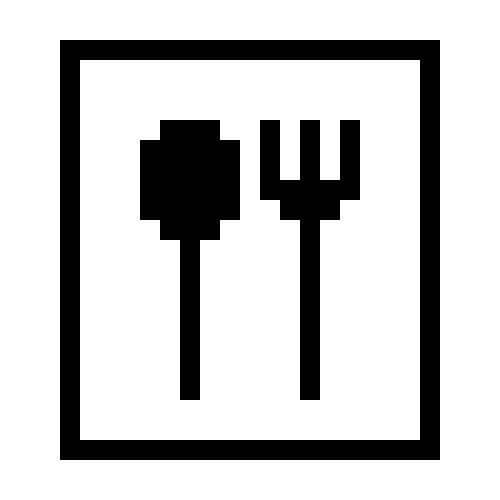
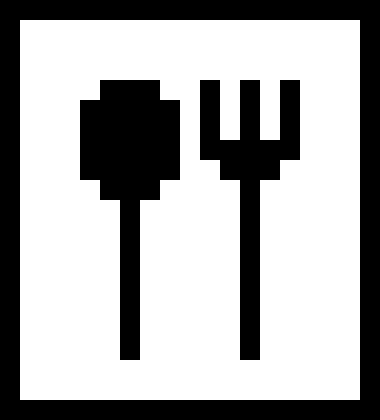
12 commit Maria

diff --git a/main.py b/main.py
@@ -179,6 +179,12 @@ def meow(cat, pos):
         clicked = False
 
 
+def draw_foodsc():
+    connect = sqlite3.connect('tamagochi.db')
+    cur = connect.cursor()
+    coins = cur.execute('''SELECT coins from money''').fetchone()[0]
+
+
 if __name__ == '__main__':
     pygame.init()
     size = width, height = WIDTH, HEIGHT
@@ -191,6 +197,8 @@ if __name__ == '__main__':
     running = True
     a = start_screen()
     if a:
+        food_scale = pygame.transform.scale(load_image('foodsc.png'), (90, 100))
+        screen.blit(food_scale, (300, 5))
         connect = sqlite3.connect('tamagochi.db')
         cur = connect.cursor()
         coins = cur.execute('''SELECT coins from money''').fetchone()[0]
@@ -228,7 +236,10 @@ if __name__ == '__main__':
             pos = pygame.mouse.get_pos()
             screen.blit(coin, (5, 5))
             screen.blit(string_rendered, intro_rect)
-            pygame.display.flip()
-            meow(maincat, pos)
 
+            meow(maincat, pos)
+            pygame.draw.rect(screen, (255, 255, 255), (300, 5, 90, 100))
+            draw_foodsc()
+            screen.blit(food_scale, (300, 5))
+            pygame.display.flip()
             clock.tick(FPS)
